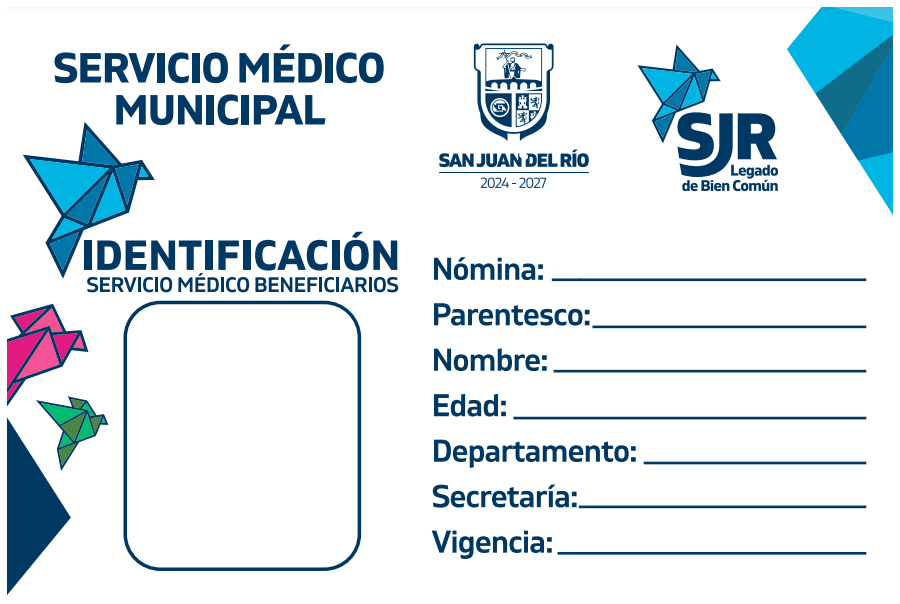
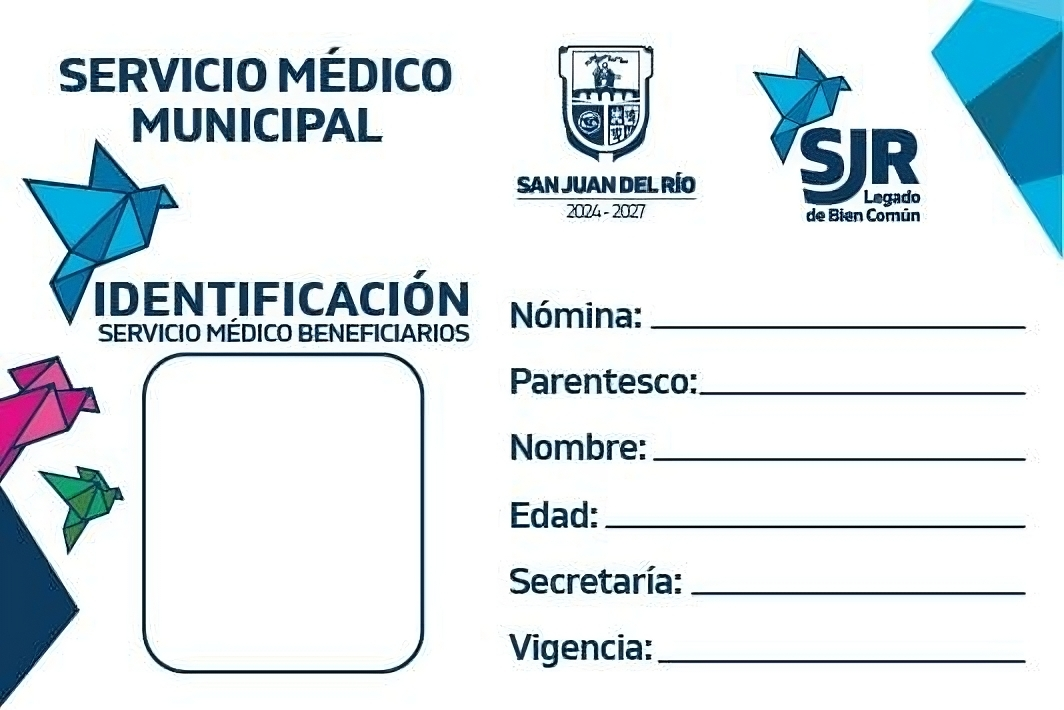
Modificación de formatos de credencial
se cargaron los nuevos formatos de credencial

diff --git a/src/pages/catalogos/beneficiarios.jsx b/src/pages/catalogos/beneficiarios.jsx
@@ -1028,7 +1028,7 @@ export default function RegistroBeneficiario() {
 
       doc.setFontSize(18);
       if (parentescoDescripcion) {
-        doc.text(parentescoDescripcion, 19.8, 11.16);
+        doc.text(parentescoDescripcion, 19.8, 11.42);
       } else {
         console.error(
           "Error: parentescoDescripcion no es válido:",
@@ -1041,7 +1041,7 @@ export default function RegistroBeneficiario() {
         A_MATERNO || ""
       }`;
       if (nombreCompleto.trim()) {
-        doc.text(nombreCompleto, 18.4, 12.6);
+        doc.text(nombreCompleto, 18.4, 13.4);
       } else {
         console.error("Error: Nombre completo no es válido:", nombreCompleto);
       }
@@ -1049,17 +1049,17 @@ export default function RegistroBeneficiario() {
       doc.setFontSize(18);
       const edadTexto = `${edad} años`;
       if (edadTexto) {
-        doc.text(edadTexto, 17.2, 14.3);
+        doc.text(edadTexto, 17.2, 15.5);
       } else {
         console.error("Error: Edad no es válida:", edadTexto);
       }
 
       doc.setFontSize(14.5);
       const departamentoText = doc.splitTextToSize(DEPARTAMENTO, 8.5);
-      let departamentoY = 15.4;
+      let departamentoY = 16.8;
       departamentoText.forEach((line) => {
         if (line.trim()) {
-          doc.text(line, 21.3, departamentoY);
+          doc.text(line, 20, departamentoY);
           departamentoY += 0.6;
         } else {
           console.error(
@@ -1071,7 +1071,7 @@ export default function RegistroBeneficiario() {
 
       doc.setFontSize(18);
       if (vigencia) {
-        doc.text(vigencia, 18.8, 19.0);
+        doc.text(vigencia, 18.8, 19.4);
       } else {
         console.error("Error: Vigencia no es válida:", vigencia);
       }

diff --git a/server.js b/server.js
@@ -71,10 +71,10 @@ app.prepare().then(() => {
   });
 
   // Arranca el servidor HTTPS en la IP y puerto especificados
-  //server.listen(3000, "172.16.4.47", (err) => {
-  server.listen(3000, "172.16.12.100", (err) => {
+  server.listen(3000, "172.16.4.47", (err) => {
+  //server.listen(3000, "172.16.12.100", (err) => {
     if (err) throw err;
-    //console.log("Servidor HTTPS corriendo en https://172.16.4.47:3000");
-    console.log("Servidor HTTPS corriendo en https://172.16.12.100:3000");
+    console.log("Servidor HTTPS corriendo en https://172.16.4.47:3000");
+    //console.log("Servidor HTTPS corriendo en https://172.16.12.100:3000");
   });
 });
